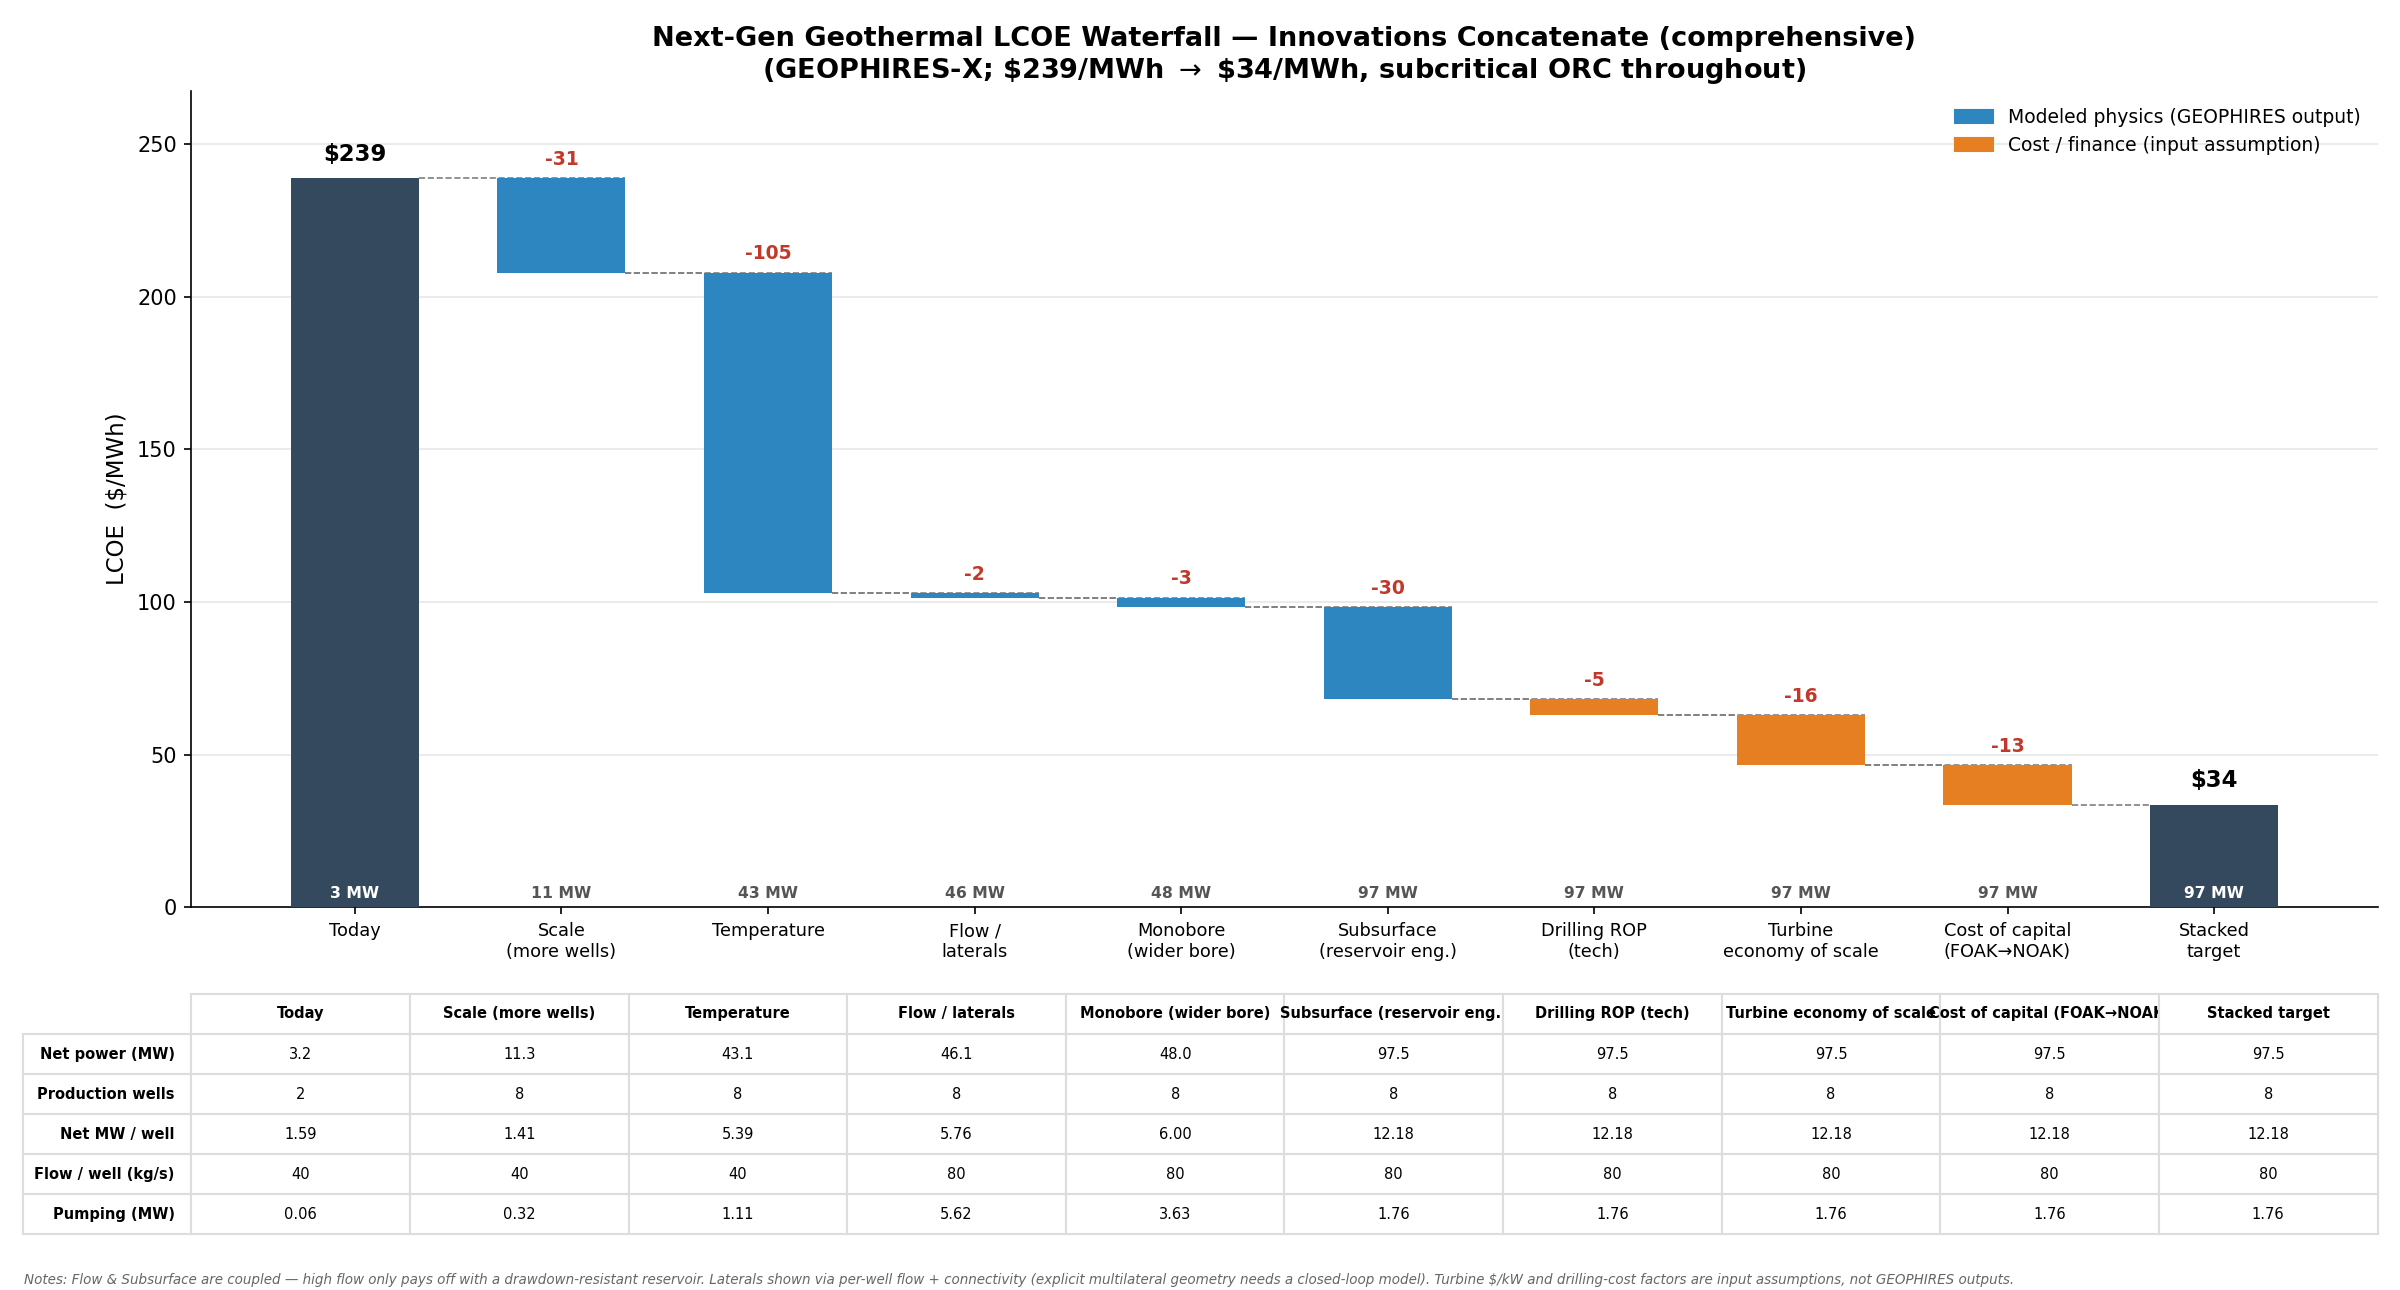
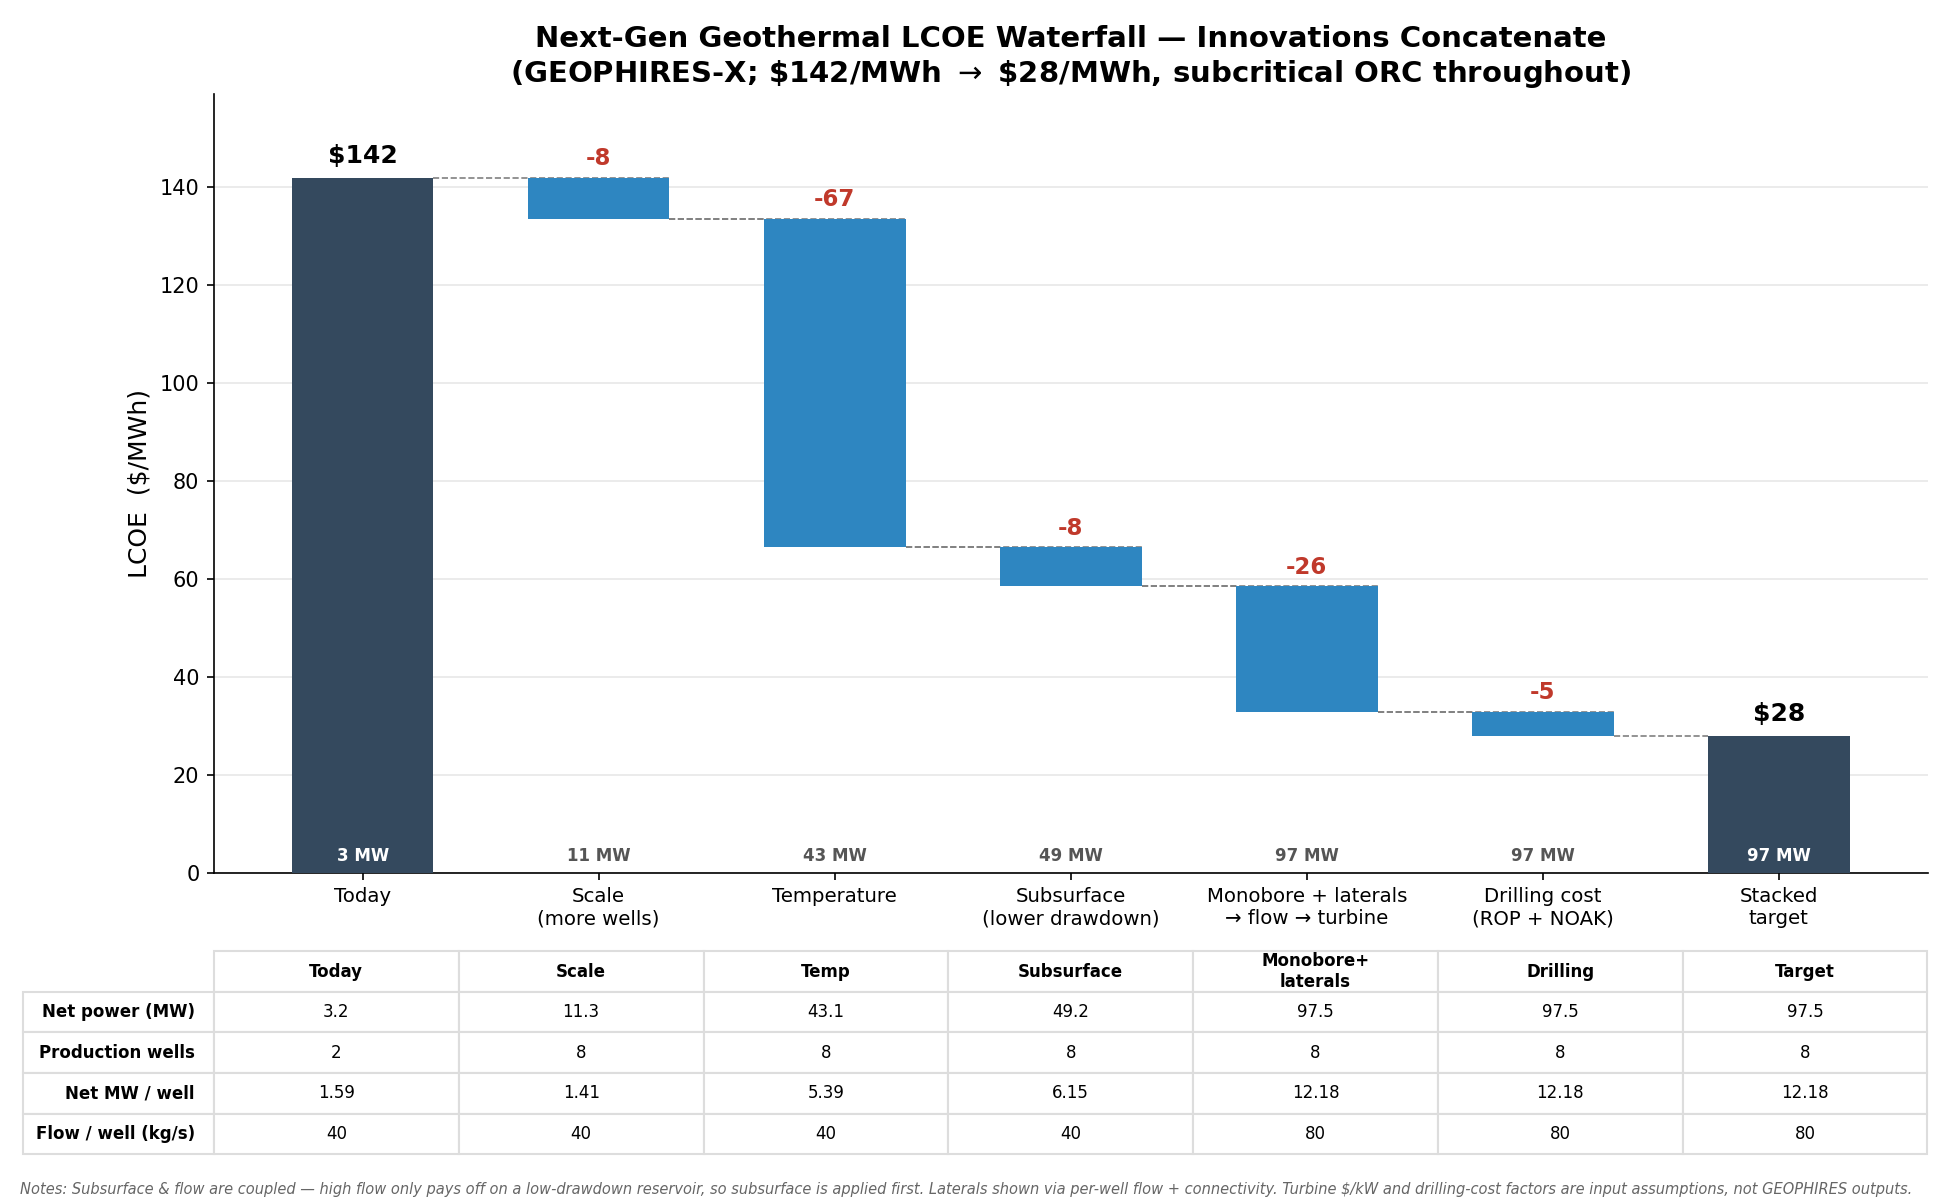
Simplify to 5 levers: bundle monobore+laterals+flow+turbine, drop cost-of-capital
Per feedback: remove the cost-of-capital lever (back to fixed-charge-rate
economics); fold the turbine economy-of-scale back into a single
monobore+laterals->flow->turbine bundle (wider bore + laterals push more flow,
which unlocks the cheaper turbine); keep subsurface as a standalone
lower-drawdown lever and the drilling-cost reduction (ROP + NOAK learning) as
its own bar. Subsurface is applied before the flow bundle because high flow only
pays off on a low-drawdown reservoir (otherwise the bundle is non-monotonic).
~$142->$28/MWh.

https://claude.ai/code/session_01PxwwciuLbSkxwXnBWvLSW5

diff --git a/docs/waterfall/lcoe_waterfall.py b/docs/waterfall/lcoe_waterfall.py
@@ -1,41 +1,35 @@
 """
-LCOE cost-reduction waterfall for next-gen (EGS) geothermal -- COMPREHENSIVE.
+LCOE cost-reduction waterfall for next-gen (EGS) geothermal.
 
 Reproduces the "innovations concatenate into a step-change in cost" story
-(slide 45c) using GEOPHIRES-X, broken into the full set of defensible levers
-(technical backup version). A conservative first-of-a-kind (FOAK) EGS field is
-taken as "today"; levers are applied *cumulatively* and the levelized cost of
+(slide 45c) using GEOPHIRES-X. A conservative first-of-a-kind (FOAK) EGS field
+is taken as "today"; levers are applied *cumulatively* and the levelized cost of
 electricity (LCOE) is read after each step.
 
-Levers, in order (order matters in a cumulative waterfall):
-    1. Scale            -- "drill the field": more wells. Amortizes fixed
-                           (exploration/surface) cost + cross-well learning.
-    2. Temperature      -- deeper/hotter resource. Conversion efficiency is
-                           coupled to temperature, so this carries the
-                           efficiency gain (plant held at subcritical ORC).
-    3. Flow / laterals  -- more throughput per well. Models the *effect* of
-                           horizontal/multilateral laterals (more flow + better
-                           connectivity); explicit lateral geometry would need a
-                           closed-loop reservoir model, so it is represented
-                           here by flow + productivity index.
-    4. Monobore         -- wider bore cuts parasitic pumping (friction ~1/D^5).
-                           Small in $/MWh but it is what makes high flow viable.
-    5. Subsurface       -- reservoir engineering: a larger heat-exchange network
-                           resists thermal drawdown so the high flow pays off
-                           (coupled with lever 3).
-    6. Drilling ROP     -- faster/simpler drilling (MWD/information) lowers the
-                           per-well drilling cost (technology learning).
-    7. Turbine scale    -- the larger plant unlocks a bigger, cheaper turbine
-                           (lower plant $/kW). INPUT ASSUMPTION, not a model
-                           output.
-    8. Cost of capital  -- FOAK -> NOAK de-risking: lower discount rate, plus a
-                           further drilling-cost reduction from repeated
-                           execution.
+Five levers, in order (order matters in a cumulative waterfall):
+    1. Scale          -- "drill the field": more wells amortize fixed
+                         (exploration/surface) cost + cross-well learning.
+    2. Temperature    -- deeper/hotter resource. Conversion efficiency is
+                         coupled to temperature, so this carries the efficiency
+                         gain (plant held at subcritical ORC throughout).
+    3. Subsurface     -- reservoir engineering: a larger heat-exchange network
+                         lowers thermal drawdown over the project life, so the
+                         field sustains output. Pulled BEFORE the flow lever
+                         because high flow only pays off on a low-drawdown
+                         reservoir (the two are physically coupled).
+    4. Monobore + laterals -> flow -> turbine -- one causal chain: a wider
+                         monobore plus horizontal/multilateral laterals push
+                         far more flow per well (low parasitic pumping), which
+                         lifts power per well and unlocks a larger, cheaper
+                         turbine (lower plant $/kW).
+    5. Drilling cost  -- faster/simpler drilling (higher ROP, monobore) plus the
+                         drilling-cost share of FOAK->NOAK learning-by-doing.
 
-Note on what is model physics vs. assumption:
-    * GEOPHIRES OUTPUTS (derived): scale, temperature/efficiency, flow, monobore
-      pumping, subsurface drawdown, discount-rate effect.
+What is model physics vs. assumption:
+    * GEOPHIRES OUTPUTS (derived): scale, temperature/efficiency, subsurface
+      drawdown, flow, monobore pumping.
     * INPUT ASSUMPTIONS (asserted): turbine $/kW, drilling-cost factors.
+    (No cost-of-capital lever: economics use a fixed charge rate throughout.)
 
 Run:  python docs/waterfall/lcoe_waterfall.py
 Outputs: lcoe_waterfall.png and lcoe_waterfall.csv in this folder.
@@ -77,8 +71,7 @@ def run_case(params: dict) -> dict:
 
 # ----------------------------------------------------------------------------
 # "Today": conservative FOAK EGS field -- small (2 doublets), cool resource,
-# narrow bore, low flow, baseline reservoir, subcritical ORC, FOAK cost premium,
-# high (FOAK) discount rate. Economic Model 2 so the discount rate is explicit.
+# narrow bore, low flow, baseline reservoir, subcritical ORC, FOAK cost premium.
 # ----------------------------------------------------------------------------
 today = {
     'Reservoir Model': 1,                  # multiple parallel fractures (EGS)
@@ -97,75 +90,65 @@ today = {
     'Utilization Factor': 0.85,
     'Well Drilling Cost Correlation': 1,
     'Well Drilling and Completion Capital Cost Adjustment Factor': 1.5,  # FOAK premium
-    'Economic Model': 2,                   # standard levelized cost (uses Discount Rate)
-    'Discount Rate': 0.10,                 # FOAK cost of capital
     'Print Output to Console': 0,
 }
 
-# Cumulative lever deltas. 'cat' tags the bar colour: 'phys' = GEOPHIRES-derived
-# physics, 'cost' = input cost/finance assumption.
+# Cumulative lever deltas applied on top of the running case.
 levers = [
-    ('Scale\n(more wells)', 'phys', {
+    ('Scale\n(more wells)', {
         'Number of Production Wells': 8,
         'Number of Injection Wells': 8,
         'Well Drilling and Completion Capital Cost Adjustment Factor': 1.35,  # cross-well learning
     }),
-    ('Temperature', 'phys', {
+    ('Temperature', {
         'Reservoir Depth': 4,
         'Gradient 1': 60,                  # ~260 C bottom-hole
     }),
-    ('Flow /\nlaterals', 'phys', {
-        'Production Flow Rate per Well': 80,
-        'Productivity Index': 15,
-        'Injectivity Index': 15,
-    }),
-    ('Monobore\n(wider bore)', 'phys', {
-        'Production Well Diameter': 8.5,
-        'Injection Well Diameter': 8.5,
-    }),
-    ('Subsurface\n(reservoir eng.)', 'phys', {
+    ('Subsurface\n(lower drawdown)', {
         'Number of Fractures': 40,
         'Fracture Height': 1500,           # larger heat-exchange area resists drawdown
     }),
-    ('Drilling ROP\n(tech)', 'cost', {
-        'Well Drilling and Completion Capital Cost Adjustment Factor': 1.0,
+    ('Monobore + laterals\n→ flow → turbine', {
+        # wider monobore + laterals: far more flow per well at low pumping
+        'Production Well Diameter': 8.5,
+        'Injection Well Diameter': 8.5,
+        'Production Flow Rate per Well': 80,
+        'Productivity Index': 15,
+        'Injectivity Index': 15,
+        # the bigger plant unlocks a larger, cheaper turbine (economy of scale).
+        # NB: plant $/kW is an input assumption, not a GEOPHIRES output.
+        'Capital Cost for Power Plant for Electricity Generation': 1200,  # $/kW
     }),
-    ('Turbine\neconomy of scale', 'cost', {
-        'Capital Cost for Power Plant for Electricity Generation': 1200,  # $/kW (ASSUMPTION)
-    }),
-    ('Cost of capital\n(FOAK→NOAK)', 'cost', {
-        'Discount Rate': 0.06,
-        'Well Drilling and Completion Capital Cost Adjustment Factor': 0.8,  # NOAK learning-by-doing
+    ('Drilling cost\n(ROP + NOAK)', {
+        # faster/simpler drilling + drilling share of FOAK->NOAK learning
+        'Well Drilling and Completion Capital Cost Adjustment Factor': 0.8,
     }),
 ]
 
 
 def main():
     running = dict(today)
-    hdr = f"{'step':26s} {'LCOE':>8s} {'net MW':>8s} {'wells':>6s} {'MW/well':>8s} {'pump MW':>8s}"
+    hdr = f"{'step':30s} {'LCOE':>8s} {'net MW':>8s} {'wells':>6s} {'MW/well':>8s} {'pump MW':>8s}"
     print(hdr); print('-' * len(hdr))
 
     def show(tag, m, prev=None):
         d = '' if prev is None else f'  Δ={m["lcoe"]-prev:+7.1f}'
-        print(f"{tag:26s} {m['lcoe']:7.1f}$ {m['mw']:7.1f} {m['nprod']:6.0f} "
+        print(f"{tag:30s} {m['lcoe']:7.1f}$ {m['mw']:7.1f} {m['nprod']:6.0f} "
               f"{m['mw_per_well']:7.2f} {m['pump_mw']:7.2f}{d}")
 
     metrics = [run_case(running)]
     labels = ['Today']
-    cats = ['anchor']
     show('Today (FOAK)', metrics[0])
 
-    for name, cat, delta in levers:
+    for name, delta in levers:
         running.update(delta)
         m = run_case(running)
         show('+ ' + name.replace('\n', ' '), m, metrics[-1]['lcoe'])
         metrics.append(m)
         labels.append(name)
-        cats.append(cat)
 
     lcoes = [m['lcoe'] for m in metrics]
     labels.append('Stacked\ntarget')
-    cats.append('anchor')
     lcoes.append(lcoes[-1])
     metrics.append(metrics[-1])
 
@@ -173,27 +156,27 @@ def main():
     import csv
     with open(HERE / 'lcoe_waterfall.csv', 'w', newline='') as f:
         w = csv.writer(f)
-        w.writerow(['step', 'category', 'LCOE_USD_per_MWh', 'net_MW', 'production_wells',
+        w.writerow(['step', 'LCOE_USD_per_MWh', 'net_MW', 'production_wells',
                     'net_MW_per_well', 'flow_per_well_kg_s', 'pump_MW', 'total_CAPEX_MUSD'])
-        cols = ['Today'] + [n.replace('\n', ' ') for n, _, _ in levers]
-        catcol = ['anchor'] + [c for _, c, _ in levers]
-        for name, cat, m in zip(cols, catcol, metrics):
-            w.writerow([name, cat, round(m['lcoe'], 1), round(m['mw'], 1), int(m['nprod']),
+        cols = ['Today'] + [n.replace('\n', ' ') for n, _ in levers]
+        for name, m in zip(cols, metrics):
+            w.writerow([name, round(m['lcoe'], 1), round(m['mw'], 1), int(m['nprod']),
                         round(m['mw_per_well'], 2), round(m['flow_per_well'], 0),
                         round(m['pump_mw'], 2), round(m['capex'], 1)])
 
-    plot_waterfall(labels, lcoes, cats, metrics)
+    plot_waterfall(labels, lcoes, metrics)
 
 
-def plot_waterfall(labels, lcoes, cats, metrics):
+def plot_waterfall(labels, lcoes, metrics):
     import matplotlib
     matplotlib.use('Agg')
     import matplotlib.pyplot as plt
 
-    colors = {'anchor': '#34495e', 'phys': '#2e86c1', 'cost': '#e67e22'}
+    anchor = '#34495e'
+    lever = '#2e86c1'
     n = len(labels)
     fig, (ax, tax) = plt.subplots(
-        2, 1, figsize=(16, 8.6), gridspec_kw={'height_ratios': [4, 1.25]})
+        2, 1, figsize=(13, 8), gridspec_kw={'height_ratios': [4, 1]})
 
     start = lcoes[0]
     target = lcoes[-2]
@@ -201,60 +184,52 @@ def plot_waterfall(labels, lcoes, cats, metrics):
     for i in range(n):
         if i == 0 or i == n - 1:
             val = lcoes[i] if i == 0 else target
-            ax.bar(i, val, width=0.62, color=colors['anchor'], zorder=3)
-            ax.text(i, val + 4, f'${val:.0f}', ha='center', va='bottom',
-                    fontweight='bold', fontsize=11)
+            ax.bar(i, val, width=0.6, color=anchor, zorder=3)
+            ax.text(i, val + 2, f'${val:.0f}', ha='center', va='bottom',
+                    fontweight='bold', fontsize=12)
         else:
             top = lcoes[i - 1]
             bottom = lcoes[i]
-            ax.bar(i, top - bottom, bottom=bottom, width=0.62,
-                   color=colors[cats[i]], zorder=3)
-            ax.text(i, top + 3, f'{bottom - top:+.0f}', ha='center', va='bottom',
-                    color='#c0392b', fontsize=9, fontweight='bold')
-            ax.plot([i - 1 + 0.31, i + 0.31], [top, top], color='gray',
+            ax.bar(i, top - bottom, bottom=bottom, width=0.6, color=lever, zorder=3)
+            ax.text(i, top + 1.5, f'{bottom - top:+.0f}', ha='center', va='bottom',
+                    color='#c0392b', fontsize=11, fontweight='bold')
+            ax.plot([i - 1 + 0.3, i + 0.3], [top, top], color='gray',
                     lw=0.8, ls='--', zorder=2)
         if 0 < i < n - 1:
-            ax.plot([i + 0.31, i + 1 - 0.31], [lcoes[i], lcoes[i]],
+            ax.plot([i + 0.3, i + 1 - 0.3], [lcoes[i], lcoes[i]],
                     color='gray', lw=0.8, ls='--', zorder=2)
-        ax.text(i, 2, f"{metrics[i]['mw']:.0f} MW", ha='center', va='bottom',
-                fontsize=7.5, color='white' if i in (0, n - 1) else '#555',
+        ax.text(i, 1.5, f"{metrics[i]['mw']:.0f} MW", ha='center', va='bottom',
+                fontsize=8, color='white' if i in (0, n - 1) else '#555',
                 fontweight='bold', zorder=4)
 
     ax.set_xticks(range(n))
-    ax.set_xticklabels(labels, fontsize=8.5)
-    ax.set_ylabel('LCOE  ($/MWh)', fontsize=11)
-    ax.set_title('Next-Gen Geothermal LCOE Waterfall — Innovations Concatenate (comprehensive)\n'
+    ax.set_xticklabels(labels, fontsize=9.5)
+    ax.set_ylabel('LCOE  ($/MWh)', fontsize=12)
+    ax.set_title('Next-Gen Geothermal LCOE Waterfall — Innovations Concatenate\n'
                  rf'(GEOPHIRES-X; \${start:.0f}/MWh $\rightarrow$ \${target:.0f}/MWh, subcritical ORC throughout)',
-                 fontsize=13, fontweight='bold')
+                 fontsize=14, fontweight='bold')
     ax.set_ylim(0, start * 1.12)
     ax.grid(axis='y', alpha=0.3)
     for spine in ['top', 'right']:
         ax.spines[spine].set_visible(False)
 
-    # legend for categories
-    from matplotlib.patches import Patch
-    ax.legend(handles=[
-        Patch(color=colors['phys'], label='Modeled physics (GEOPHIRES output)'),
-        Patch(color=colors['cost'], label='Cost / finance (input assumption)'),
-    ], loc='upper right', fontsize=9, frameon=False)
-
     # ---- power table ----
     tax.axis('off')
-    row_labels = ['Net power (MW)', 'Production wells', 'Net MW / well',
-                  'Flow / well (kg/s)', 'Pumping (MW)']
+    row_labels = ['Net power (MW)', 'Production wells', 'Net MW / well', 'Flow / well (kg/s)']
     cell_text = [
         [f"{m['mw']:.1f}" for m in metrics],
         [f"{m['nprod']:.0f}" for m in metrics],
         [f"{m['mw_per_well']:.2f}" for m in metrics],
         [f"{m['flow_per_well']:.0f}" for m in metrics],
-        [f"{m['pump_mw']:.2f}" for m in metrics],
     ]
-    col_labels = [lbl.replace('\n', ' ') for lbl in labels]
+    # short headers so the 7 columns don't overlap
+    col_labels = ['Today', 'Scale', 'Temp', 'Subsurface',
+                  'Monobore+\nlaterals', 'Drilling', 'Target']
     tbl = tax.table(cellText=cell_text, rowLabels=row_labels, colLabels=col_labels,
                     cellLoc='center', rowLoc='right', loc='center')
     tbl.auto_set_font_size(False)
-    tbl.set_fontsize(7)
-    tbl.scale(1, 1.35)
+    tbl.set_fontsize(8)
+    tbl.scale(1, 1.4)
     for (r, c), cell in tbl.get_celld().items():
         if r == 0:
             cell.set_text_props(fontweight='bold')
@@ -263,10 +238,9 @@ def plot_waterfall(labels, lcoes, cats, metrics):
         cell.set_edgecolor('#dddddd')
 
     fig.text(0.01, 0.005,
-             'Notes: Flow & Subsurface are coupled — high flow only pays off with a drawdown-resistant reservoir. '
-             'Laterals shown via per-well flow + connectivity (explicit multilateral geometry needs a closed-loop model). '
-             'Turbine $/kW and drilling-cost factors are input assumptions, not GEOPHIRES outputs.',
-             fontsize=6.5, color='#666', style='italic')
+             'Notes: Subsurface & flow are coupled — high flow only pays off on a low-drawdown reservoir, so subsurface is applied first. '
+             'Laterals shown via per-well flow + connectivity. Turbine $/kW and drilling-cost factors are input assumptions, not GEOPHIRES outputs.',
+             fontsize=7, color='#666', style='italic')
 
     fig.tight_layout(rect=(0, 0.02, 1, 1))
     out = HERE / 'lcoe_waterfall.png'
